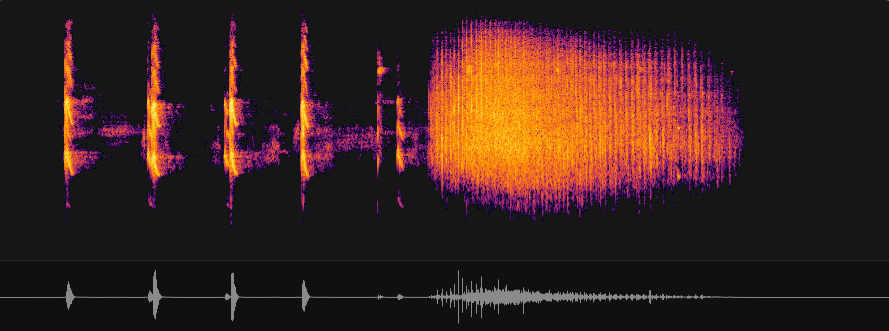
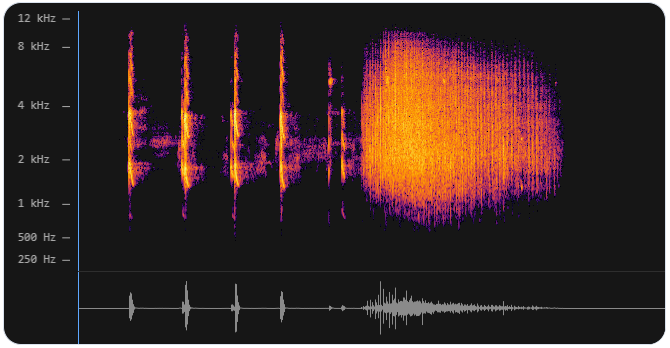
feat: enhance audio visualizer with frequency axis and UI improvements

Changed region(s): [[0.0, 0.0, 1.0, 1.0]]

diff --git a/static/wave.js b/static/wave.js
@@ -1,13 +1,14 @@
-import { inferno, turbo, viridis, magma } from "./js-colormaps.js";
+import { inferno } from "./js-colormaps.js";
 
 function colormap(v) {
   return inferno(v);
 }
 
-export function createVisualizer({ audioElement, spectrogramCanvas, timelineCanvas }) {
+export function createVisualizer({ audioElement, spectrogramCanvas, timelineCanvas, freqAxisCanvas }) {
 
   const spectCtx = spectrogramCanvas.getContext("2d");
   const timelineCtx = timelineCanvas.getContext("2d");
+  const axisCtx = freqAxisCanvas.getContext("2d");
 
   const spectrogramBaseCanvas = document.createElement("canvas");
   const timelineBaseCanvas = document.createElement("canvas");
@@ -46,6 +47,11 @@ export function createVisualizer({ audioElement, spectrogramCanvas, timelineCanv
     return 1127 * Math.log(1 + hz/700);
   }
 
+  function hzToY(hz, height, melMin, melSpan) {
+    const mel = hzToMel(hz);
+    return height * (1 - (mel - melMin) / melSpan);
+  }
+
   function resizeCanvases() {
 
     const spectRect = spectrogramCanvas.getBoundingClientRect();
@@ -61,9 +67,11 @@ export function createVisualizer({ audioElement, spectrogramCanvas, timelineCanv
 
     timelineBaseCanvas.width = timelineCanvas.width;
     timelineBaseCanvas.height = timelineCanvas.height;
+    freqAxisCanvas.height = spectrogramCanvas.height;
 
     renderSpectrogramBase();
     renderTimelineBase();
+    drawFrequencyAxis();
     redraw();
   }
 
@@ -74,7 +82,7 @@ export function createVisualizer({ audioElement, spectrogramCanvas, timelineCanv
     const width = spectrogramBaseCanvas.width;
     const height = spectrogramBaseCanvas.height;
 
-    ctx.fillStyle = "#000";
+    ctx.fillStyle = "#161616";
     ctx.fillRect(0,0,width,height);
 
     if (!audioBuffer) return;
@@ -190,7 +198,7 @@ export function createVisualizer({ audioElement, spectrogramCanvas, timelineCanv
     const width = timelineBaseCanvas.width;
     const height = timelineBaseCanvas.height;
 
-    ctx.fillStyle = "#101010";
+    ctx.fillStyle = "#161616";
     ctx.fillRect(0, 0, width, height);
 
     if (audioBuffer) {
@@ -239,6 +247,8 @@ export function createVisualizer({ audioElement, spectrogramCanvas, timelineCanv
     spectCtx.clearRect(0,0,w,h);
     spectCtx.drawImage(spectrogramBaseCanvas,0,0);
 
+    drawFrequencyAxis(spectCtx,w,h);
+
     drawPlayhead(spectCtx,w,h);
   }
 
@@ -265,6 +275,66 @@ export function createVisualizer({ audioElement, spectrogramCanvas, timelineCanv
     ctx.moveTo(x,0);
     ctx.lineTo(x,h);
     ctx.stroke();
+  }
+
+  function drawFrequencyAxis() {
+
+    const ctx = axisCtx;
+    const width = freqAxisCanvas.width;
+    const height = freqAxisCanvas.height;
+
+    ctx.clearRect(0,0,width,height);
+
+    ctx.fillStyle = "#161616";
+    ctx.fillRect(0,0,width,height);
+
+    const melMin = hzToMel(MIN_FREQ);
+    const melMax = hzToMel(MAX_FREQ);
+    const melSpan = melMax - melMin;
+
+    const ticks = [
+      250,
+      500,
+      1000,
+      2000,
+      4000,
+      8000,
+      12000
+    ];
+
+    ctx.strokeStyle = "#aaa";
+    ctx.fillStyle = "#aaa";
+
+    ctx.font = "12px monospace";
+    ctx.textBaseline = "middle";
+    ctx.textAlign = "left";
+
+    const margin = 8;
+
+    for (const hz of ticks) {
+
+      if (hz < MIN_FREQ || hz > MAX_FREQ) continue;
+
+      const mel = hzToMel(hz);
+
+      let y = height * (1 - (mel - melMin) / melSpan);
+
+      y = Math.max(margin, Math.min(height - margin, y));
+
+      y = Math.round(y) + 0.5;
+
+      ctx.beginPath();
+      ctx.moveTo(width-8, y);
+      ctx.lineTo(width, y);
+      ctx.stroke();
+
+      const label =
+        hz >= 1000
+          ? (hz/1000).toFixed(0) + " kHz"
+          : hz + " Hz";
+
+      ctx.fillText(label, 6, y);
+    }
   }
 
   function redraw(){

diff --git a/static/index.html b/static/index.html
@@ -143,15 +143,19 @@
               <audio id="audioPlayer"></audio>
 
               <div class="spectrogram-wrap">
-                <div id="visualizerLoading" class="visualizer-loading hidden">
-                  <div class="spinner"></div>
-                  <div class="visualizer-loading-text">
-                    Rendering audio view...
-                  </div>
-                </div>
+                <canvas id="freqAxisCanvas" width="60" height="260"></canvas>
 
-                <canvas id="spectrogramCanvas" height="260"></canvas>
-                <canvas id="timelineCanvas" height="72"></canvas>
+                <div class="spectrogram-stack">
+                  <div id="visualizerLoading" class="visualizer-loading hidden">
+                    <div class="spinner"></div>
+                    <div class="visualizer-loading-text">
+                      Rendering audio view...
+                    </div>
+                  </div>
+
+                  <canvas id="spectrogramCanvas" height="260"></canvas>
+                  <canvas id="timelineCanvas" height="72"></canvas>
+                </div>
               </div>
 
               <ul class="legend">

diff --git a/static/styles.css b/static/styles.css
@@ -340,10 +340,31 @@ button:disabled {
 
 .spectrogram-wrap {
   position: relative;
+  padding-top: 0.75rem;
+  padding-left: 0.5rem;
   border-radius: 18px;
   overflow: hidden;
   border: 1px solid var(--border);
+  background-color: #161616;
+
+  display: flex;
+  align-items: flex-start;
+}
+
+#freqAxisCanvas {
+  width: 60px;
+  height: 260px;
   background: #161616;
+  padding-right: 2px;
+}
+
+.spectrogram-stack {
+  flex: 1;
+
+  display: flex;
+  flex-direction: column;
+
+  padding-left: 6px;
 }
 
 #spectrogramCanvas,
@@ -353,7 +374,8 @@ button:disabled {
 }
 
 #timelineCanvas {
-  border-top: 1px solid rgba(255, 255, 255, 0.08);
+  border-top: 1px solid rgba(255,255,255,0.1);
+  background: #161616;
 }
 
 .visualizer-loading {

diff --git a/static/ui.js b/static/ui.js
@@ -32,6 +32,7 @@ export const el = {
   progressFill: document.getElementById("progressFill"),
   spectrogramCanvas: document.getElementById("spectrogramCanvas"),
   timelineCanvas: document.getElementById("timelineCanvas"),
+  freqAxisCanvas: document.getElementById("freqAxisCanvas"),
   visualizerLoading: document.getElementById("visualizerLoading"),
   audioMeta: document.getElementById("audioMeta"),
 };

diff --git a/static/app.js b/static/app.js
@@ -30,6 +30,7 @@ const visualizer = createVisualizer({
   audioElement: el.audioPlayer,
   spectrogramCanvas: el.spectrogramCanvas,
   timelineCanvas: el.timelineCanvas,
+  freqAxisCanvas: el.freqAxisCanvas,
 });
 
 async function init() {

diff --git a/README.md b/README.md
@@ -1,5 +1,9 @@
-![Python](https://img.shields.io/badge/python-3.10-blue)
-![FastAPI](https://img.shields.io/badge/fastapi-backend-green)
+![Python](https://img.shields.io/badge/python-3.12-3776AB?logo=python&logoColor=white)
+![FastAPI](https://img.shields.io/badge/FastAPI-backend-009688?logo=fastapi&logoColor=white)
+![BirdNET](https://img.shields.io/badge/BirdNET-Analyzer-orange)
+![Spectrogram Renderer](https://img.shields.io/badge/Spectrogram-FFT_Renderer-purple)
+![FFmpeg](https://img.shields.io/badge/FFmpeg-audio_processing-green?logo=ffmpeg&logoColor=white)
+![WebUI](https://img.shields.io/badge/Web_UI-JavaScript-yellow?logo=javascript&logoColor=black)
 ![License](https://img.shields.io/badge/license-MIT-blue)
 
 # BirdNET-Analyzer-for-Web
@@ -115,6 +119,7 @@ The **en_uk.txt** label file is required due it's the default language.
 
 - spectrogram rendering
 - waveform timeline
+- frequency axis (Hz / kHz)
 - detection overlays
 - interactive playhead
 
